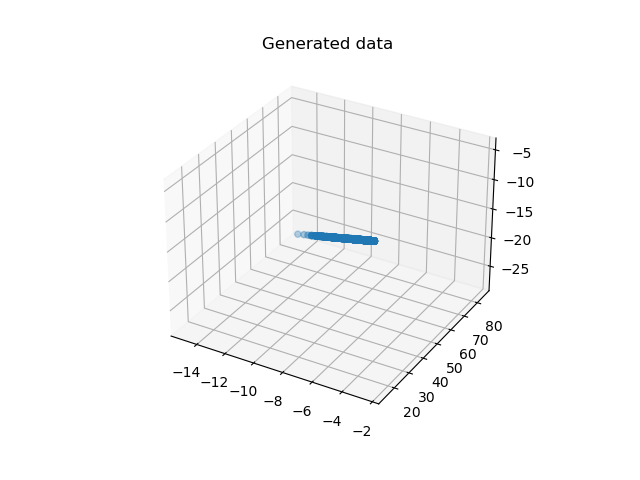
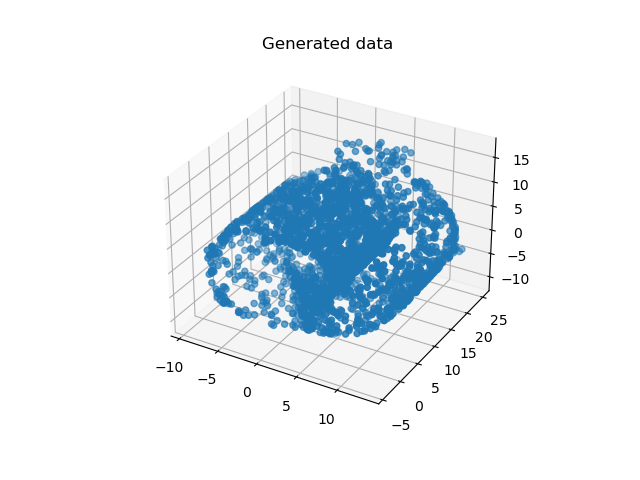
Apr. 8 updates

diff --git a/P3/P3_SWGAN.py b/P3/P3_SWGAN.py
@@ -1,0 +1,80 @@
+import torch
+import numpy as np
+import torch.nn as nn
+from torch.utils.data import DataLoader
+from matplotlib import pyplot as plot
+import os
+
+from data import SwissRollDataset
+from loss import SlicedWSLoss3D
+from model import Generator
+
+os.environ["KMP_DUPLICATE_LIB_OK"] = "TRUE"
+
+# Hyperparameters
+N = 2500            # Number of data points
+EPOCH = 5000         # Number of epochs
+BSIZE = 250         # Batch size
+L = 512
+D_ITER = 5
+
+# Dataset
+dataset = SwissRollDataset(N)
+dataloader = DataLoader(dataset, batch_size=BSIZE, shuffle=False)
+
+# Model
+G_model = Generator(2, [32, 256, 512, 512, 256, 32], 3)
+
+# Reconstruction loss
+rec_loss = nn.MSELoss()
+pp_loss = SlicedWSLoss3D(L)
+
+# Optimizer
+G_optim = torch.optim.Adam(G_model.parameters(), lr=0.0001)
+
+# Loss value records (for plotting)
+g_loss = []
+
+# Training
+for e in range(EPOCH):
+    for i, data in enumerate(dataloader):
+        z = torch.randn(BSIZE, 2)
+
+        # forward
+        x_gen = G_model(z)
+        
+        gen_loss = pp_loss(x_gen, data)
+
+        G_optim.zero_grad()
+        gen_loss.backward()
+        G_optim.step()
+        g_loss.append(gen_loss.item())
+
+        # print status
+        print(f'Epoch {e} {i * BSIZE}/{len(dataset)}:', 
+              f'G_loss={round(gen_loss.item(), 4)}')
+
+# Plot loss curve
+x = np.arange((len(g_loss))) * D_ITER
+y = np.array(g_loss)
+
+plot.figure()
+plot.plot(x, y, 'b-')
+plot.legend(['Generator loss'])
+plot.savefig('SWGAN/loss.png')
+
+# Plot encoded data
+full_z = torch.randn(len(dataset), 2)
+generation_final = G_model(full_z).detach().numpy()
+fig = plot.figure()
+ax = fig.add_subplot(projection='3d')
+ax.scatter(generation_final[:, 0], generation_final[:, 1], generation_final[:, 2], marker='o')
+ax.set_title('Generated data')
+plot.savefig('SWGAN/generated.png')
+
+# Show original data
+fig = plot.figure()
+ax = fig.add_subplot(projection='3d')
+ax.scatter(dataset[:, 0], dataset[:, 1], dataset[:, 2], marker='o')
+ax.set_title('Original data')
+plot.savefig('SWGAN/original.png')

diff --git a/P3/loss.py b/P3/loss.py
@@ -1,0 +1,47 @@
+import numpy as np
+import torch
+import torch.nn as nn
+
+
+class SlicedWSLoss2D(nn.Module):
+    def __init__(self, n_slices) -> None:
+        super(SlicedWSLoss2D, self).__init__()
+        self.n_slices = n_slices
+
+    def forward(self, x, y):
+        SW_loss_val = 0
+        proj_angle = torch.rand(self.n_slices) * 2 * torch.pi
+        proj_vec = torch.cat([torch.cos(proj_angle).unsqueeze(1), 
+                              torch.sin(proj_angle).unsqueeze(1)], 1).unsqueeze(-1)
+        x = torch.stack([x.squeeze(0)] * self.n_slices, 0)
+        y = torch.stack([y.squeeze(0)] * self.n_slices, 0)
+        x_proj = torch.bmm(x, proj_vec).squeeze(2)
+        y_proj = torch.bmm(y, proj_vec).squeeze(2)
+        x_proj, _ = torch.sort(x_proj, dim=-1)
+        y_proj, _ = torch.sort(y_proj, dim=-1)
+
+        SW_loss_val = torch.sum(torch.mean((x_proj - y_proj) ** 2, 1))
+        return SW_loss_val
+
+
+class SlicedWSLoss3D(nn.Module):
+    def __init__(self, n_slices) -> None:
+        super(SlicedWSLoss3D, self).__init__()
+        self.n_slices = n_slices
+
+    def forward(self, x, y):
+        SW_loss_val = 0
+        proj_a1 = torch.rand(self.n_slices) * 2 * torch.pi
+        proj_a2 = torch.rand(self.n_slices) * 2 * torch.pi
+        proj_vec = torch.cat([torch.cos(proj_a1).unsqueeze(1), 
+                              (torch.sin(proj_a1) * torch.cos(proj_a2)).unsqueeze(1),
+                              (torch.sin(proj_a1) * torch.sin(proj_a2)).unsqueeze(1)], 1).unsqueeze(-1)
+        x = torch.stack([x.squeeze(0)] * self.n_slices, 0)
+        y = torch.stack([y.squeeze(0)] * self.n_slices, 0)
+        x_proj = torch.bmm(x, proj_vec).squeeze(2)
+        y_proj = torch.bmm(y, proj_vec).squeeze(2)
+        x_proj, _ = torch.sort(x_proj, dim=-1)
+        y_proj, _ = torch.sort(y_proj, dim=-1)
+
+        SW_loss_val = torch.sum(torch.mean((x_proj - y_proj) ** 2, 1))
+        return SW_loss_val
